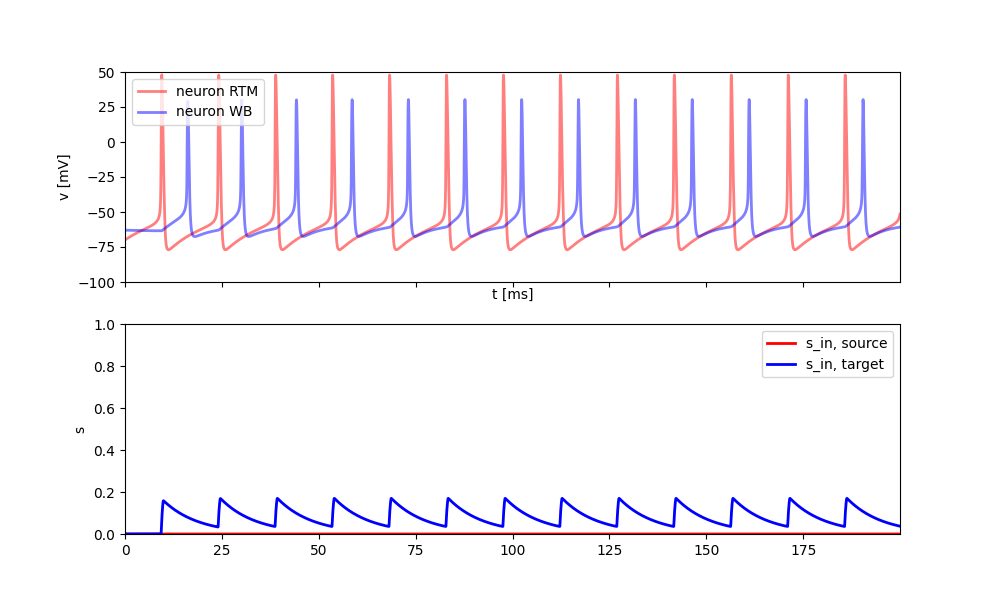
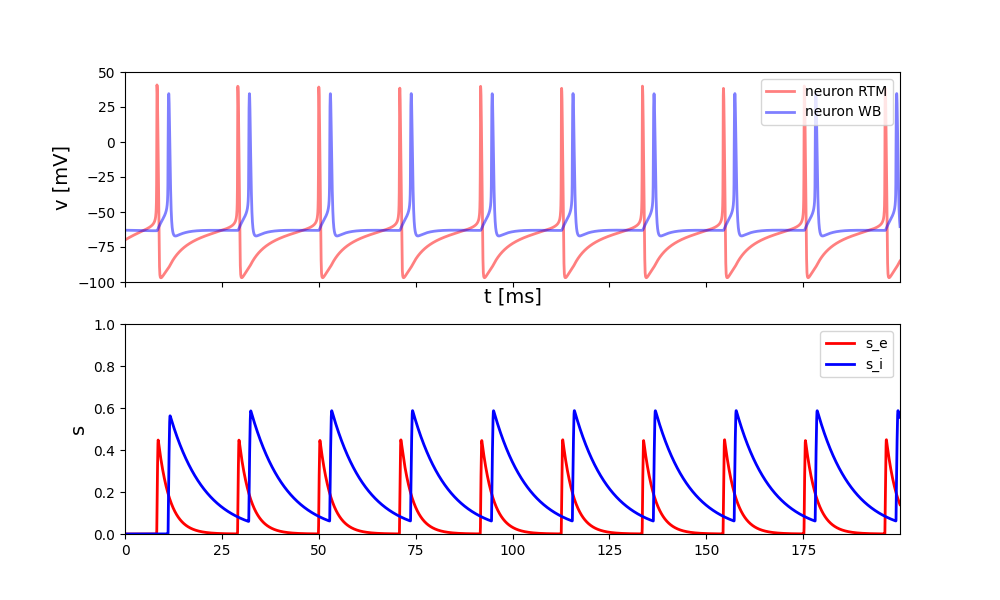
ping 2 cell added.

diff --git a/Synapse/PING_2_cell.py b/Synapse/PING_2_cell.py
@@ -3,7 +3,7 @@ import matplotlib.pyplot as plt
 import numpy as np
 
 
-def plot_data(st_mon_rt, st_mon_wb, title=None, c='k'):
+def plot_data(st_mon_e, st_mon_i, title=None, c='k'):
     """Plots the state_monitor variables "vm" vs. time.
 
     Args:
@@ -13,21 +13,21 @@ def plot_data(st_mon_rt, st_mon_wb, title=None, c='k'):
 
     fig, ax = plt.subplots(2, figsize=(10, 6), sharex=True)
 
-    ax[0].plot(st_mon_rt.t / b2.ms, st_mon_rt.vm[0] /
+    ax[0].plot(st_mon_e.t / b2.ms, st_mon_e.vm_e[0] /
                b2.mV, lw=2, c="r", alpha=0.5, label="neuron RTM")
-    ax[0].plot(st_mon_wb.t / b2.ms, st_mon_wb.vm[0] /
+    ax[0].plot(st_mon_i.t / b2.ms, st_mon_i.vm_i[0] /
                b2.mV, lw=2, c="b", alpha=0.5, label='neuron WB')
 
-    ax[1].plot(st_mon_rt.t / b2.ms, st_mon_rt.s_in[0],
-               lw=2, c="r", label='s_in, source')
-    ax[1].plot(st_mon_wb.t / b2.ms, st_mon_wb.s_in[0],
-               lw=2, c="b", label='s_in, target')
+    ax[1].plot(st_mon_e.t / b2.ms, st_mon_e.s_e[0],
+               lw=2, c="r", label='s_e')
+    ax[1].plot(st_mon_i.t / b2.ms, st_mon_i.s_i[0],
+               lw=2, c="b", label='s_i')
 
-    ax[0].set_xlabel("t [ms]")
-    ax[0].set_ylabel("v [mV]")
-    ax[1].set_ylabel("s")
+    ax[0].set_xlabel("t [ms]", fontsize=14)
+    ax[0].set_ylabel("v [mV]", fontsize=14)
+    ax[1].set_ylabel("s", fontsize=14)
 
-    ax[0].set_xlim(0, np.max(st_mon_rt.t / b2.ms))
+    ax[0].set_xlim(0, np.max(st_mon_e.t / b2.ms))
     ax[0].set_ylim(-100, 50)
     ax[1].set_ylim(0, 1)
     ax[0].legend()
@@ -43,145 +43,169 @@ def plot_data(st_mon_rt, st_mon_wb, title=None, c='k'):
 
 def simulate_2_cell_PING():
 
-    num_rt = 1
-    num_wb = 1
-    I_ext_rt = 1.4 * b2.uA
-    I_ext_wb = 0 * b2.uA
+    num_e = 1
+    num_i = 1
+    I_ext_e = 1.4 * b2.uA
+    I_ext_i = 0 * b2.uA
 
-    gSyn_rt = 0.25 * b2.msiemens
-    gSyn_wb = 0.25 * b2.msiemens
-    weight = 0.25       # connection weight of tr to wb cell.
+    weight_ei = weight_ie = 1  # connection weight of tr to wb cell.
+
+    v0_e = -70 * b2.mV
+    v0_i = -63 * b2.mV
 
     simulation_time = 200.0 * b2.ms
-    integration_method = "euler"
+    integration_method = "rk4"
 
-    # RTM neuron parameters
-    El = -67 * b2.mV
-    EK = -100 * b2.mV
-    ENa = 50 * b2.mV
-    ESyn = 0 * b2.mV
-    gl = 0.1 * b2.msiemens
-    gK = 80 * b2.msiemens
-    gNa = 100 * b2.msiemens
-    C = 1 * b2.ufarad
+    params_e = {'El': -67.0 * b2.mV,
+                'EK': -100.0 * b2.mV,
+                'ENa': 50.0 * b2.mV,
+                'gl': 0.1 * b2.msiemens,
+                'gK': 80.0 * b2.msiemens,
+                'gNa': 100.0 * b2.msiemens,
+                'C': 1.0 * b2.ufarad,
+                'tau_d_e': 3.0 * b2.ms,
+                'tau_r_e': 0.5 * b2.ms,
+                # 'tau_dq_e': 0.17228803581986085 * b2.ms
+                }
 
-    v0_rt = -70 * b2.mV
-    v0_wb = -63 * b2.mV
+    # WB neuron parameters-------------------------------------------
+    params_i = {'El': -65.0 * b2.mV,
+                'EK': -90.0 * b2.mV,
+                'ENa': 55.0 * b2.mV,
+                'gl': 0.1 * b2.msiemens,
+                'gK': 9.0 * b2.msiemens,
+                'gNa': 35.0 * b2.msiemens,
+                'C': 1.0 * b2.ufarad,
+                'tau_d_i': 9.0 * b2.ms,
+                'tau_r_i': 0.5 * b2.ms,
+                # 'tau_dq_i': 0.11628780300799235 * b2.ms,
+                }
 
-    tau_d = 2 * b2.ms
-    tau_r = 0.2 * b2.ms
+    params_syn = {
+        "g_ei": 0.25 * b2.msiemens,
+        "g_ie": 0.25 * b2.msiemens,
+        'v_rev_e': 0 * b2.mV,
+        'v_rev_i': -75 * b2.mV,
+    }
 
+    eqs_e = """
 
-    # forming RTM model with differential equations
-    eqs_rt = """
+    alphah = 0.128 * exp(-(vm_e + 50.0*mV) / (18.0*mV))/ms :Hz
+    alpham = 0.32/mV * (vm_e + 54*mV) / (1.0 - exp(-(vm_e + 54.0*mV) / (4.0*mV)))/ms:Hz
+    alphan = 0.032/mV * (vm_e + 52*mV) / (1.0 - exp(-(vm_e + 52.0*mV) / (5.0*mV)))/ms:Hz
 
-    alphah = 0.128 * exp(-(vm + 50.0*mV) / (18.0*mV))/ms :Hz
-    alpham = 0.32/mV * (vm + 54*mV) / (1.0 - exp(-(vm + 54.0*mV) / (4.0*mV)))/ms:Hz
-    alphan = 0.032/mV * (vm + 52*mV) / (1.0 - exp(-(vm + 52.0*mV) / (5.0*mV)))/ms:Hz
+    betah  = 4.0 / (1.0 + exp(-(vm_e + 27.0*mV) / (5.0*mV)))/ms:Hz
+    betam  = 0.28/mV * (vm_e + 27.0*mV) / (exp((vm_e + 27.0*mV) / (5.0*mV)) - 1.0)/ms:Hz
+    betan  = 0.5 * exp(-(vm_e + 57.0*mV) / (40.0*mV))/ms:Hz
 
-    betah  = 4.0 / (1.0 + exp(-(vm + 27.0*mV) / (5.0*mV)))/ms:Hz
-    betam  = 0.28/mV * (vm + 27.0*mV) / (exp((vm + 27.0*mV) / (5.0*mV)) - 1.0)/ms:Hz
-    betan  = 0.5 * exp(-(vm + 57.0*mV) / (40.0*mV))/ms:Hz
-
-    membrane_Im = I_ext + gNa*m**3*h*(ENa-vm) + \
-        gl*(El-vm) + gK*n**4*(EK-vm) + gSyn*s_in*(-vm): amp
+    membrane_Im = I_ext + gNa*m**3*h*(ENa-vm_e) + \
+        gl*(El-vm_e) + gK*n**4*(EK-vm_e) + I_syn_e: amp
     I_ext : amp
-    s_in  : 1
-    gSyn  : siemens
+    I_syn_e : amp
 
     dm/dt = alpham*(1-m)-betam*m : 1
     dn/dt = alphan*(1-n)-betan*n : 1
     dh/dt = alphah*(1-h)-betah*h : 1
-    
-    ds/dt = 0.5 * (1 + tanh(0.1*vm/mV)) * (1-s)/tau_r - s/tau_d : 1
 
-    dvm/dt = membrane_Im/C : volt
+    ds_e/dt = 0.5 * (1 + tanh(0.1*vm_e/mV)) * (1-s_e)/tau_r_e - s_e/tau_d_e : 1
+    
+    dvm_e/dt = membrane_Im/C : volt
     """
 
-    neuron_rt = b2.NeuronGroup(num_rt, eqs_rt, method="euler",
-                               dt=0.01*b2.ms,
-                               threshold='vm>-55*mV')
+    neuron_e = b2.NeuronGroup(num_e,
+                              eqs_e,
+                              method=integration_method,
+                              dt=0.05*b2.ms,
+                              threshold='vm_e>-55*mV',
+                              refractory='vm_e>-55*mV',
+                              namespace=params_e)
 
     # initialize variables
-    neuron_rt.vm = v0_rt
-    neuron_rt.m = "alpham / (alpham + betam)"
-    neuron_rt.h = "alphah / (alphah + betah)"
-    neuron_rt.n = "alphan / (alphan + betan)"
-    neuron_rt.I_ext = I_ext_rt
-    neuron_rt.s_in = 0
-    neuron_rt.gSyn = gSyn_rt
-
-    # WB neuron parameters
-    El = -65 * b2.mV
-    EK = -90 * b2.mV
-    ENa = 55 * b2.mV
-    gl = 0.1 * b2.msiemens
-    gK = 9 * b2.msiemens
-    gNa = 35 * b2.msiemens
-    C = 1 * b2.ufarad
-
-    tau_d = 9 * b2.ms
-    tau_r = 0.5 * b2.ms
+    neuron_e.vm_e = v0_e
+    neuron_e.m = "1 / (1 + betam/alpham)"
+    neuron_e.h = "1 / (1 + betah/alphah)"
+    neuron_e.n = "1 / (1 + betan/alphan)"
+    neuron_e.I_ext = I_ext_e
 
     # forming WB model with differential equations
-    eqs_wb = """
-    alphah = 0.35 * exp(-(vm + 58.0*mV) / (20.0*mV))/ms :Hz
-    alpham = 0.1/mV * (vm + 35.0*mV) / (1.0 - exp(-0.1/mV * (vm + 35.0*mV))) /ms :Hz
-    alphan = -0.05/mV * (vm + 34.0*mV) / (exp(-0.1/mV * (vm + 34.0*mV)) - 1.0)/ms :Hz
+    eqs_i = """
+    alphah = 0.35 * exp(-(vm_i + 58.0*mV) / (20.0*mV))/ms :Hz
+    alpham = 0.1/mV * (vm_i + 35.0*mV) / (1.0 - exp(-0.1/mV * (vm_i + 35.0*mV))) /ms :Hz
+    alphan = -0.05/mV * (vm_i + 34.0*mV) / (exp(-0.1/mV * (vm_i + 34.0*mV)) - 1.0)/ms :Hz
     
-    betah = 5.0 / (exp(-0.1/mV * (vm + 28.0*mV)) + 1.0)/ms :Hz
-    betam = 4.0 * exp(-(vm + 60.0*mV) / (18.0*mV))/ms :Hz
-    betan = 0.625 * exp(-(vm + 44.0*mV) / (80.0*mV))/ms :Hz
+    betah = 5.0 / (exp(-0.1/mV * (vm_i + 28.0*mV)) + 1.0)/ms :Hz
+    betam = 4.0 * exp(-(vm_i + 60.0*mV) / (18.0*mV))/ms :Hz
+    betan = 0.625 * exp(-(vm_i + 44.0*mV) / (80.0*mV))/ms :Hz
     
     m_inf = alpham / (alpham + betam) : 1
     
-    membrane_Im = I_ext + gNa*m_inf**3*h*(ENa-vm) + \
-        gl*(El-vm) + gK*n**4*(EK-vm) +gSyn*s_in*(ESyn-vm): amp
+    membrane_Im = I_ext + gNa*m_inf**3*h*(ENa-vm_i) + \
+        gl*(El-vm_i) + gK*n**4*(EK-vm_i) + I_syn_i: amp
     
     I_ext : amp
-    s_in  : 1
-    gSyn  : siemens
+    I_syn_i : amp
     
     dn/dt = alphan*(1-n)-betan*n : 1
     dh/dt = alphah*(1-h)-betah*h : 1
 
-    ds/dt = 0.5 * (1 + tanh(0.1*vm/mV)) * (1-s)/tau_r - s/tau_d : 1
+    ds_i/dt = 0.5 * (1 + tanh(0.1*vm_i/mV)) * (1-s_i)/tau_r_i - s_i/tau_d_i : 1
     
-    dvm/dt = membrane_Im/C : volt
+    dvm_i/dt = membrane_Im/C : volt
     """
-    neuron_wb = b2.NeuronGroup(num_wb, eqs_wb, method="euler", dt=0.01*b2.ms)
 
-    neuron_wb.vm = v0_wb
-    neuron_wb.h = "alphah / (alphah + betah)"
-    neuron_wb.n = "alphan / (alphan + betan)"
-    neuron_wb.I_ext = I_ext_wb
-    neuron_wb.s_in = 0
-    neuron_wb.gSyn = gSyn_wb
+    neuron_i = b2.NeuronGroup(num_i,
+                              eqs_i,
+                              method=integration_method,
+                              dt=0.01 * b2.ms,
+                              threshold='vm_i>-55*mV',
+                              refractory='vm_i>-55*mV',
+                              namespace=params_i)
 
-    S = b2.Synapses(neuron_rt,
-                    neuron_wb,
-                    '''
-                    w : 1
-                    s_in_post = w*s_pre:1 (summed)
-                    ''')
-    S.connect(i=0, j=0)
-    S.w[0, 0] = weight
+    neuron_i.vm_i = v0_i
+    neuron_i.h = "1 / (1 + betah / alphah)"
+    neuron_i.n = "1 / (1 + betan / alphan)"
+    neuron_i.I_ext = I_ext_i
+
+    #---------------------------------------------------------------#
+    syn_ei_eqs = '''
+    w : 1
+    I_syn_i_post = g_ei * s_e_pre * (v_rev_e - vm_i) :amp (summed)
+    '''
+    syn_ie_eqs = '''
+    w : 1
+    I_syn_e_post = g_ie * s_i_pre * (v_rev_i - vm_e) :amp (summed)
+    '''
+    #---------------------------------------------------------------#
+    S_ei = b2.Synapses(neuron_e,
+                       neuron_i,
+                       syn_ei_eqs,
+                       namespace=params_syn)
+    S_ei.connect(i=0, j=0)
+    S_ei.w = weight_ei
+    #---------------------------------------------------------------#
+    S_ie = b2.Synapses(neuron_i,
+                       neuron_e,
+                       syn_ie_eqs,
+                       namespace=params_syn)
+    S_ie.connect(i=0, j=0)
+    S_ie.w = weight_ie
 
     # tracking variables
-    st_mon_rt = b2.StateMonitor(neuron_rt, ["vm", "s_in"], record=True)
-    st_mon_wb = b2.StateMonitor(neuron_wb, ["vm", "s_in"], record=True)
+    st_mon_e = b2.StateMonitor(neuron_e, ["vm_e", "s_e"], record=True)
+    st_mon_i = b2.StateMonitor(neuron_i, ["vm_i", "s_i"], record=True)
 
     # running the simulation
-    net = b2.Network(neuron_rt)
-    net.add(neuron_wb)
-    net.add(st_mon_rt)
-    net.add(st_mon_wb)
-    net.add(S)
+    net = b2.Network(neuron_e)
+    net.add(neuron_i)
+    net.add(st_mon_e)
+    net.add(st_mon_i)
+    net.add(S_ei)
+    net.add(S_ie)
     net.run(simulation_time)
-    return st_mon_rt, st_mon_wb
+    return st_mon_e, st_mon_i
 
 
 if __name__ == "__main__":
 
-    st_mon_rt, st_mon_wb = simulate_2_cell_PING()
-    plot_data(st_mon_rt, st_mon_wb)
+    st_mon_e, st_mon_wb = simulate_2_cell_PING()
+    plot_data(st_mon_e, st_mon_wb)
